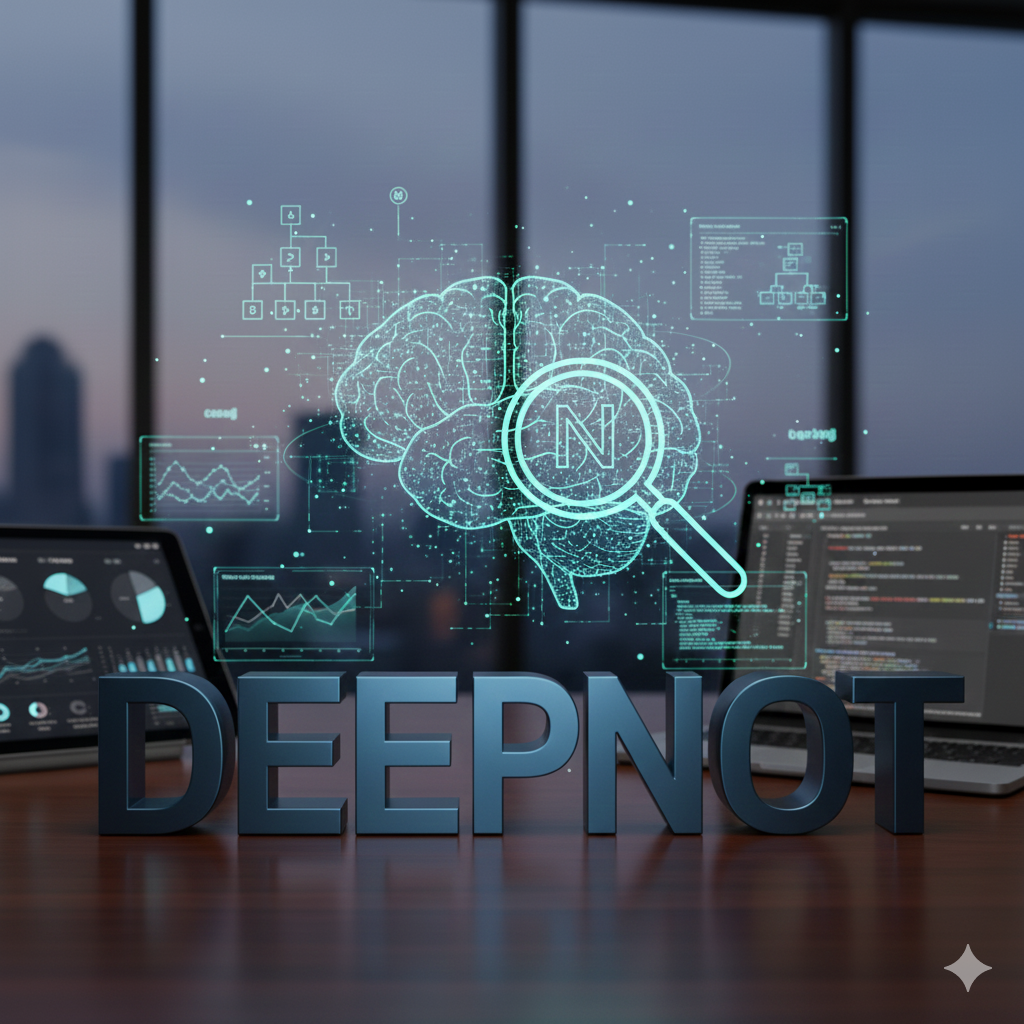
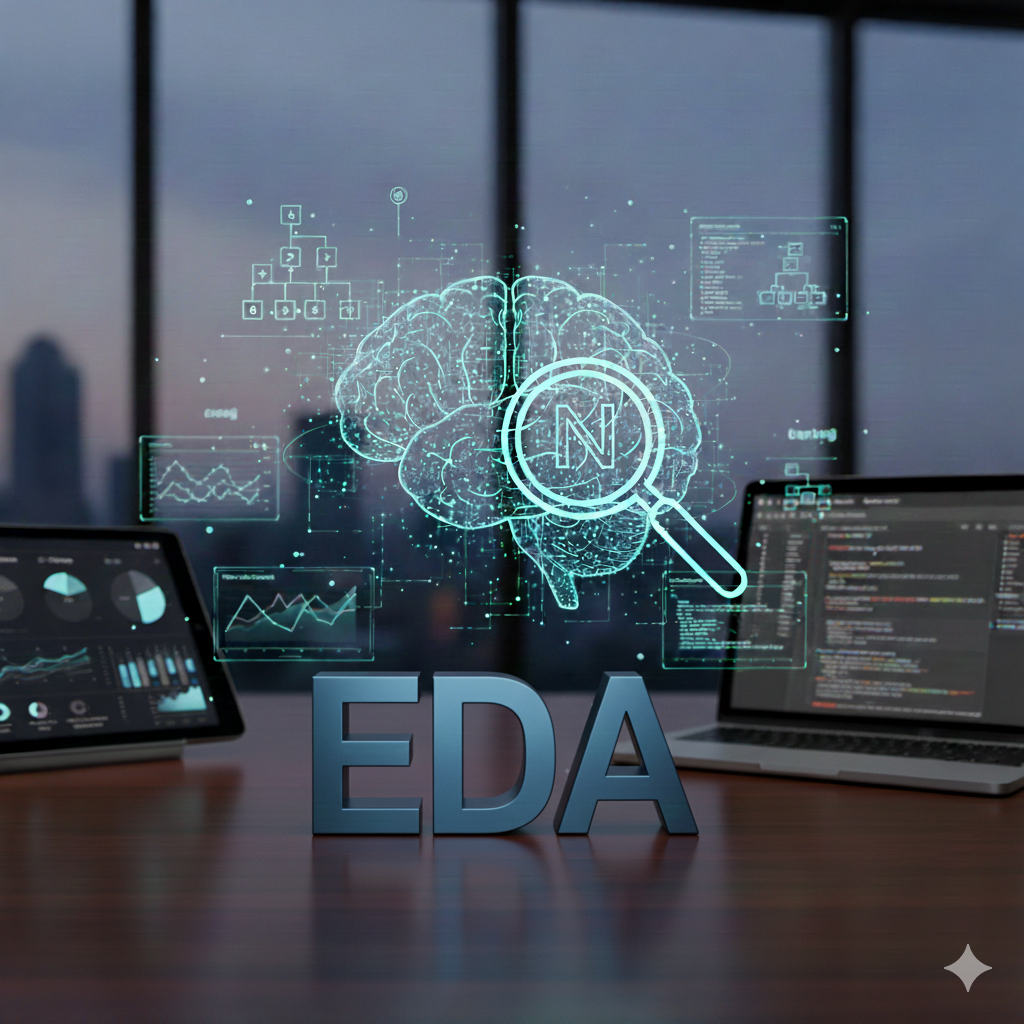
Actualizo contenido del portafolio

Changed region(s): [[0.0938, 0.25, 0.9688, 0.9375], [0.7812, 0.4688, 0.8125, 0.5]]

diff --git a/index.html b/index.html
@@ -14,10 +14,6 @@
     <nav class="navbar">
         <div class="nav-container">
             <div class="logo">Portafolio</div>
-            <input type="checkbox" id="nav-toggle" class="nav-toggle">
-            <label for="nav-toggle" class="nav-toggle-label">
-                <span></span>
-            </label>
             <ul class="nav-menu">
                 <li><a href="#inicio" class="nav-link">Inicio</a></li>
                 <li><a href="#acerca" class="nav-link">Acerca de</a></li>
@@ -35,7 +31,7 @@
                 <p class="hero-description">
                     Especializado en análisis de datos, estadística, machine learning y visualización de datos.
                 </p>
-                <a href="#acerca" class="btn-primary">Conoce más</a>
+                <a href="#acerca" class="btn-primary">Conocé más</a>
             </div>
             <div class="hero-image">
                 <div class="image-placeholder">
@@ -66,9 +62,8 @@
                         desarrollando proyectos que me permiten aplicar estos conocimientos en situaciones reales.
                     <p class="about-description">
                         Mi enfoque está en transformar datos en información útil mediante técnicas de programación,
-                        visualización y modelado. Utilizo herramientas como Pandas,
-                        Matplotlib y Seaborn para explorar datasets, detectar patrones y
-                        crear soluciones apoyadas en inteligencia artificial y automatización.
+                        visualización y modelado. Utilizo herramientas de machine learning para explorar datasets,
+                        detectar patrones y crear soluciones que mejoren la rentabilidad.
                     </p>
                     
                     <div class="skills">
@@ -133,8 +128,7 @@
                 <p class="project-description">
                     Proyecto de un sistema de administración de base de datos (ABM) desarrollado en Python. 
                     Este sistema permite a los usuarios crear, leer, actualizar y eliminar registros en una base de datos 
-                    de manera eficiente. La aplicación cuenta con una interfaz intuitiva que facilita la gestión de datos, 
-                    asegurando la integridad y seguridad de la información almacenada.
+                    de manera eficiente. 
                 </p>
                 <div class="project-tags">
                     <span class="tag">Python</span>
@@ -151,7 +145,7 @@
                 </div>
             </div>
             <div class="project-info">
-                <h3 class="project-title">Analisis Exploratorio de Datos</h3>
+                <h3 class="project-title">Análisis Exploratorio de Datos</h3>
                 <p class="project-description">
                     Se trata de un análisis exploratorio de datos (EDA) realizado en Python utilizando bibliotecas como Pandas, 
                     Matplotlib y Seaborn. El objetivo principal es comprender mejor el conjunto de datos, identificar patrones, 
@@ -161,8 +155,8 @@
                 <div class="project-tags">
                     <span class="tag">Python</span>
                     <span class="tag">Notebooks</span>
-                    <span class="tag">DeepNot</span>
-                    <span class="tag">Estadistica</span>
+                    <span class="tag">DeepNote</span>
+                    <span class="tag">Estadística</span>
                 </div>
             </div>
         </div>
